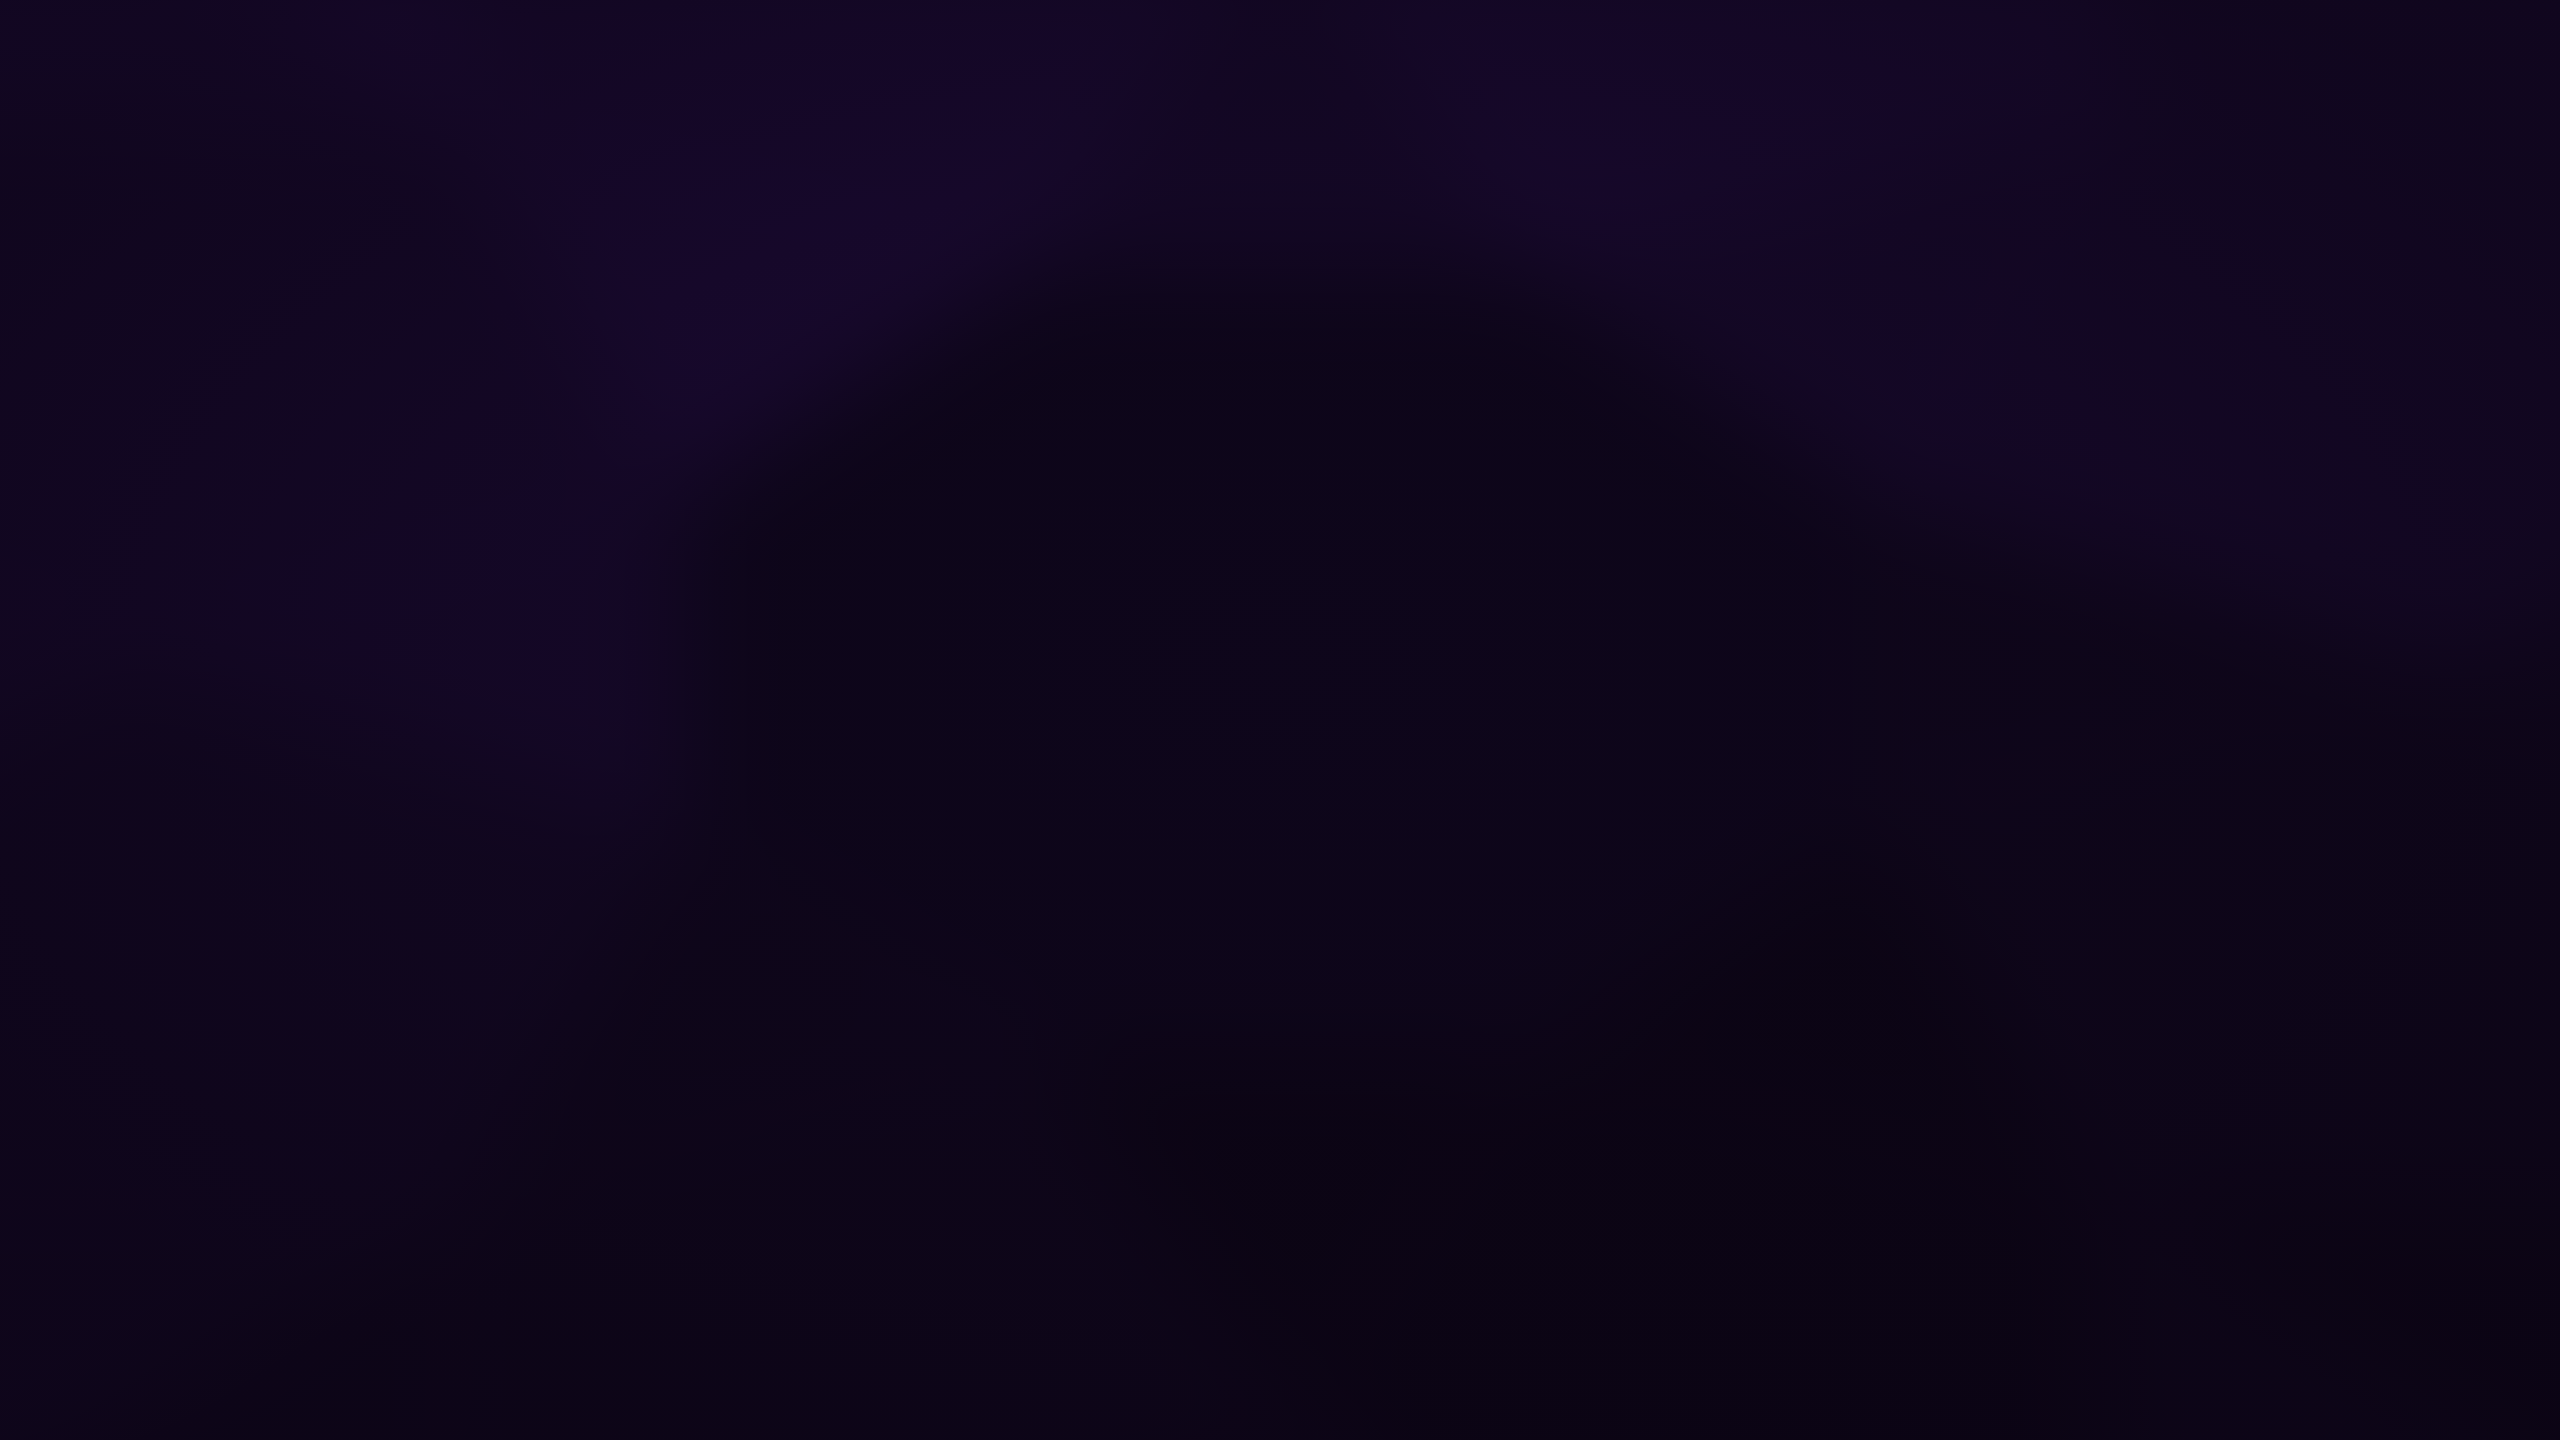
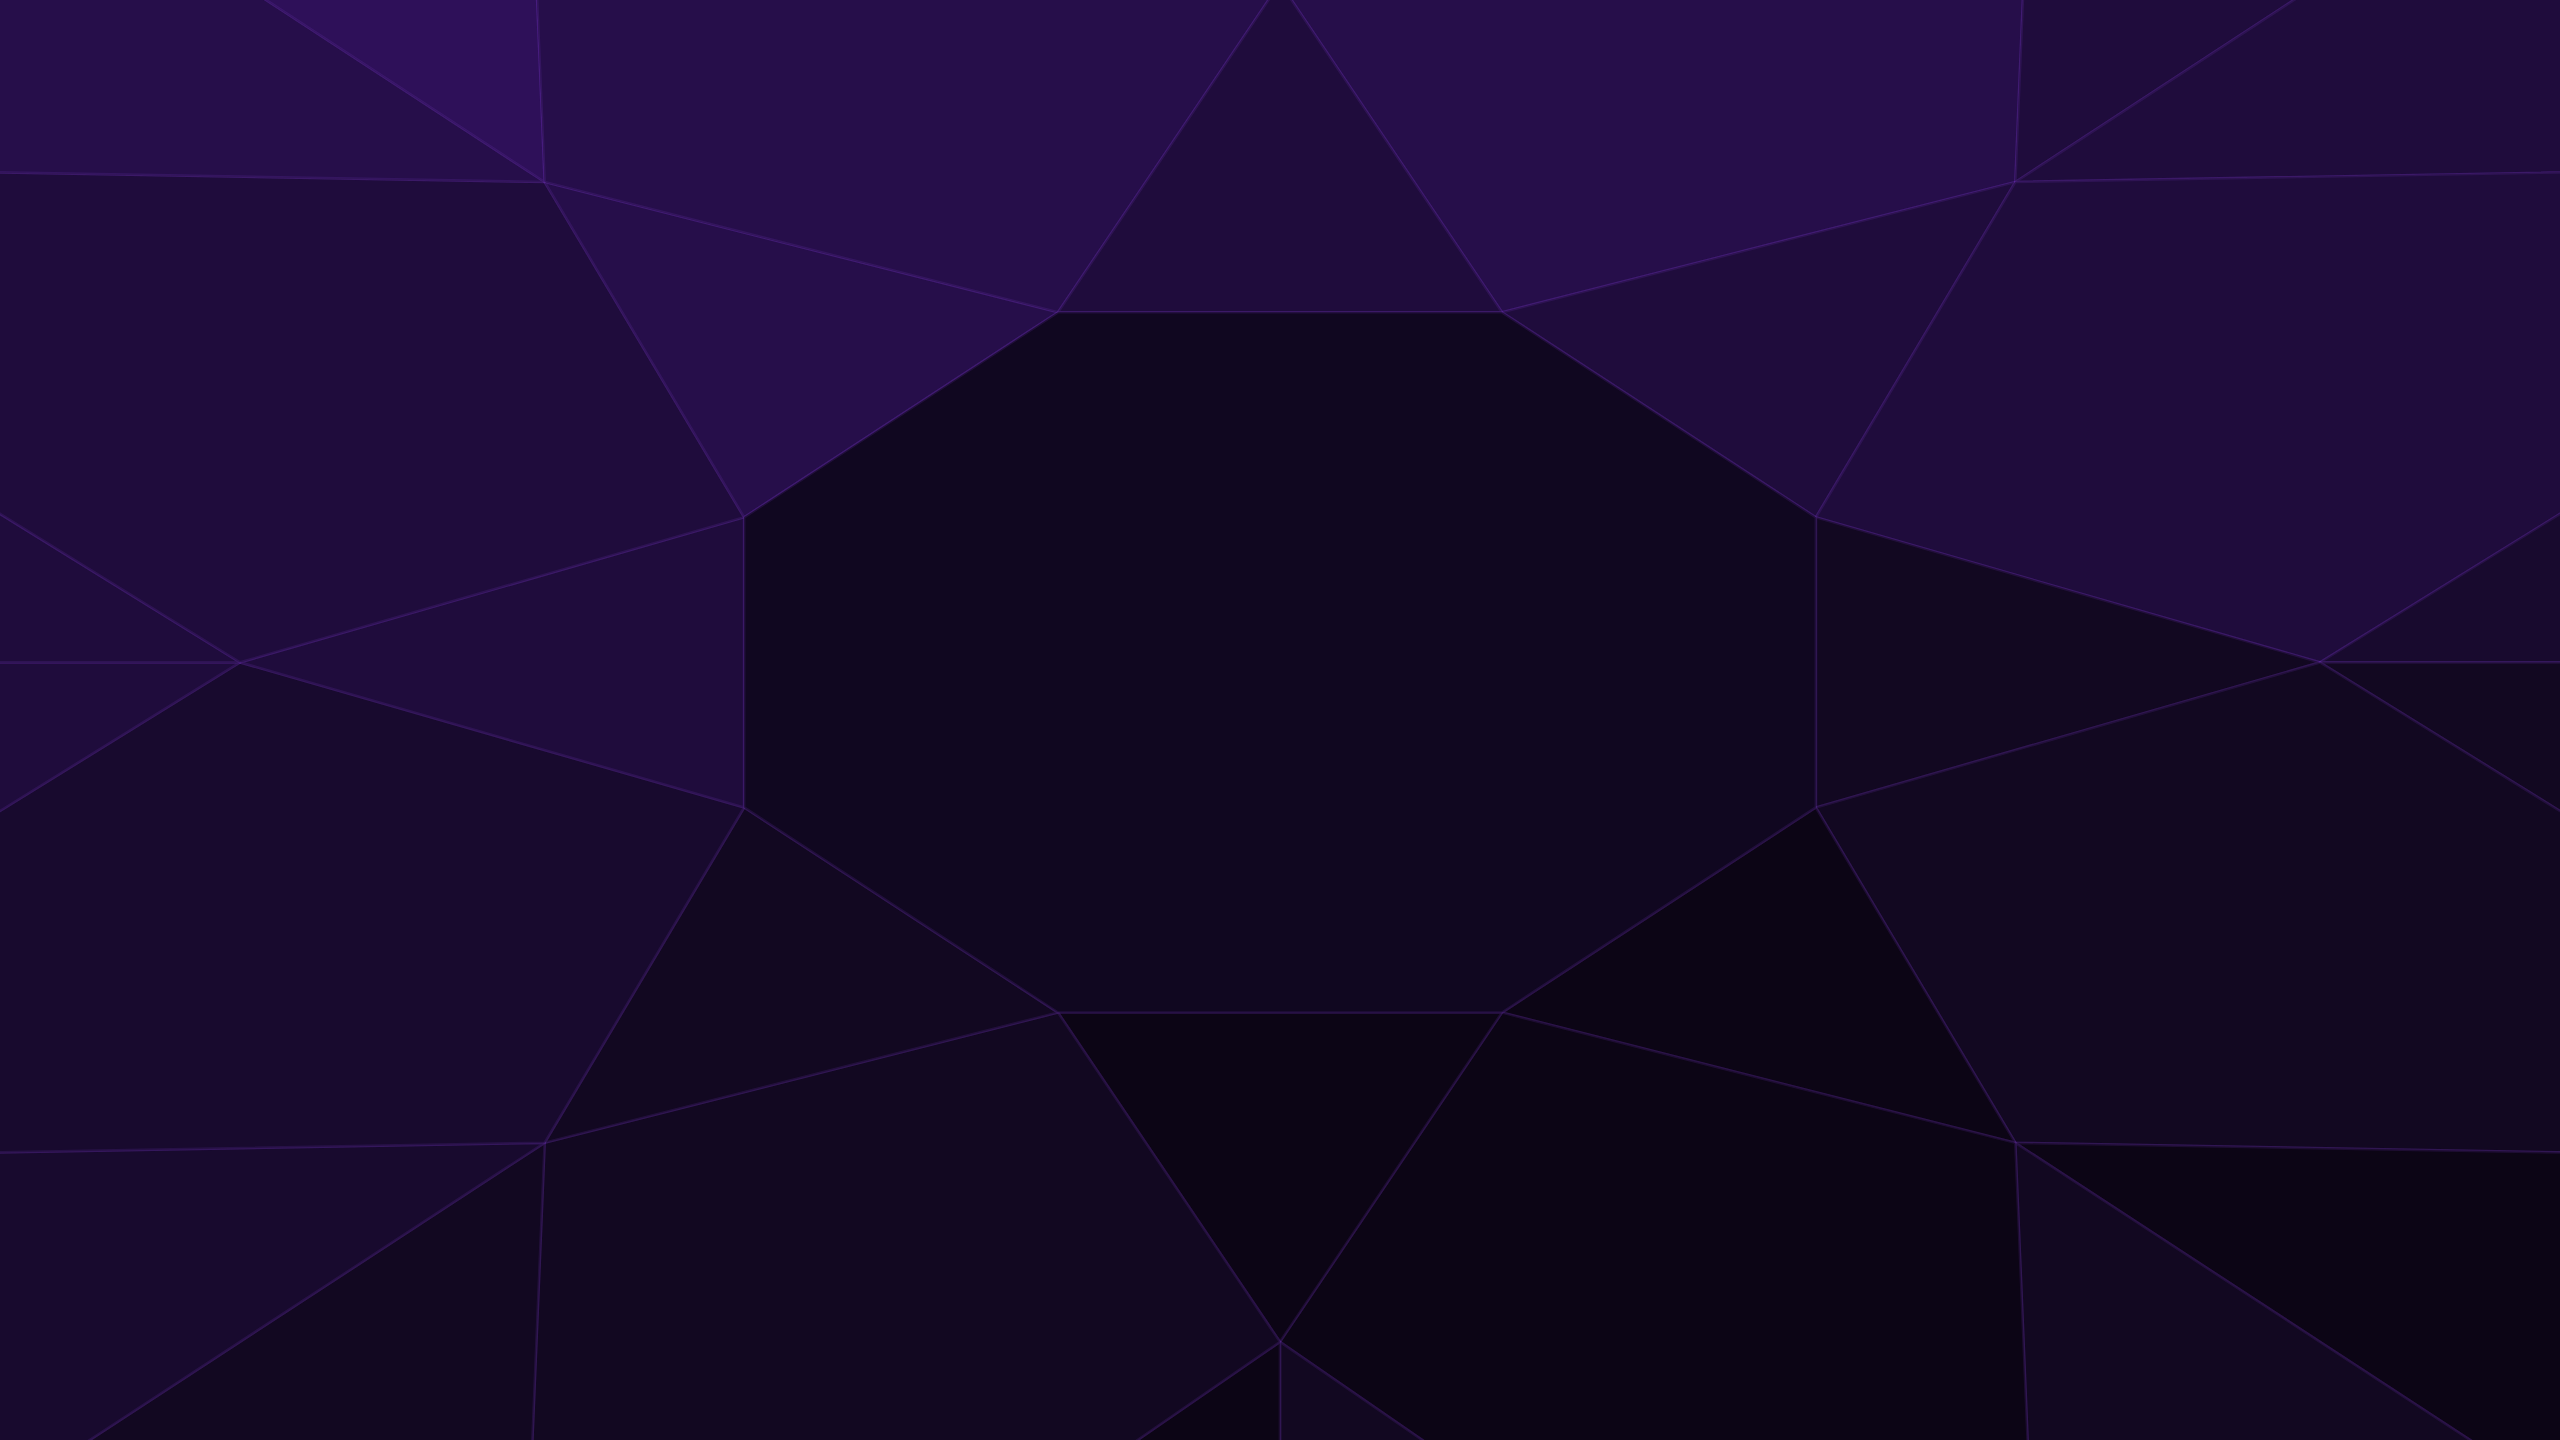
NVIDIA IMAGES+default background/login background

diff --git a/AGENTS.md b/AGENTS.md
@@ -500,7 +500,7 @@ packages for `generic-release` in the package database only, their files staying
 6. `build_files/shared/build-gnome-extensions.sh` - Builds the GNOME Shell extensions from the git submodules
 7. `10-icons.sh` - Installs the candy-icons icon theme from a pinned upstream commit (the pin is bumped by Renovate; see `.github/renovate.json5`). Apps the pack has no artwork for are aliased to its nearest icon; where nothing is near enough, the icon is drawn for this image in the pack's style and kept in `build_files/shared/candy-icons`, from where the script installs it into the theme. `NOTICE` names each of those icons with where its outline comes from and its licence, and `20-tests.sh` fails on one it does not name; an icon that reuses the pack's artwork, as the Security shield does, is GPL-3.0 like the pack, not Apache-2.0. The theme redraws nobody's logo: a logo is a trademark, and Mozilla, JetBrains, Anthropic and most others allow theirs unaltered or not at all. Of the pack's application icons only the drawings named in `build_files/shared/candy-icons/keep` stay, the pictograms of a job rather than of a product, and every application whose logo the pack redrew (Firefox, Thunderbird, the JetBrains IDEs and some 700 more) shows the icon it brought with it; the logos on the pack's folder, file type and status icons are removed too. Do not alias an application to another maker's logo, do not draw one for this image (Bazaar's is the one that is, and `NOTICE` says so: its maker publishes no trademark terms, which is what `keep` asks of a logo), and add a name to `keep` only after looking at the drawing; `20-tests.sh` fails on an application icon that is neither on the list nor drawn here. `user-setup.hooks.d/16-retire-jetbrains-icons.sh` takes back the links an earlier image made to the IDE drawings
 8. `11-gtk-theme.sh` - Installs the Amethystora GTK theme: EliverLara's Sweet, by the author of candy-icons, with every cool colour in it rotated onto the amethyst palette by `build_files/shared/recolor.py`. It ships under Amethystora's own name because the palette is no longer Sweet's. Only the `amethystora` and `amethystora-light` themes name it in their `gtk.theme`; the rest stay on adw-gtk3, which follows the GNOME accent colour. libadwaita ignores `gtk-theme` and a Flatpak cannot see `/usr/share/themes` at all, so both are reached by `theme-set.hooks.d/20-gtk-apps.sh`: it mirrors the active theme into `~/.themes`, which `/etc/flatpak/overrides/global` grants every sandbox read-only, and writes the `~/.config/gtk-4.0/gtk.css` that imports from the mirror
-9. `12-login-screen.sh` - Patches the login screen background into GNOME Shell's own stylesheet. GNOME reads it from the `#lockDialogGroup` rule inside `gnome-shell-theme.gresource` and from nowhere else, so the bundle is unpacked, the rule appended and the bundle rebuilt. The picture is the crown the boot splash ends on, blurred and without the gem, drawn by `branding/generate.mjs`
+9. `12-login-screen.sh` - Patches the login screen background into GNOME Shell's own stylesheet. GNOME reads it from the `#lockDialogGroup` rule inside `gnome-shell-theme.gresource` and from nowhere else, so the bundle is unpacked, the rule appended and the bundle rebuilt. The picture is the crown the boot splash ends on, as sharp as the splash draws it and without the gem, drawn by `branding/generate.mjs`
 10. `13-manual.sh` - Installs the runtime of the Amethystora Manual (`amethystora-manual`, `Super+F1`): a pinned Electron release, checked against the checksum Electron publishes, and a pinned `marked` from the npm registry, checked against its integrity. Both are bumped by Renovate. It also adds Quicksand for the wordmark, from `branding/fonts`. The app itself is `system_files/shared/usr/lib/amethystora-manual/resources/app` and its pages are `system_files/shared/usr/share/amethystora/manual`
 11. `14-security.sh` - Installs the runtime of Amethystora Security (`amethystora-security`), the security report and virus scanner that replace the report's terminal launcher and ClamUI: hard links to the Manual's Electron, so that the image carries one Electron for both, and Quicksand for its wordmark from `branding/fonts`, which the `ctx` stage copies in. The app itself is `system_files/shared/usr/lib/amethystora-security/resources/app`; the report it draws is `/usr/libexec/amethystora-security-status`, which `ujust security-status` prints. It also derives network protection's Suricata configuration (`/usr/share/amethystora/ips/suricata.yaml`) from the one the suricata package ships, with `build_files/shared/ips-config.py`, so that it fits Suricata 7 and 8 alike
 12. `15-update.sh` - Installs the runtime of System Updates (`amethystora-update`), the window that replaces upstream's System Update launcher, a terminal on `ujust update`: the same hard links to the Manual's Electron and the same Quicksand as `14-security.sh`. The app itself is `system_files/shared/usr/lib/amethystora-update/resources/app`; upstream's launcher is not shipped
@@ -512,7 +512,7 @@ packages for `generic-release` in the package database only, their files staying
 18. `18-workarounds.sh` - Temporary fixes/workarounds
 19. `19-initramfs.sh` - Regenerates initramfs, adding dracut's `tpm2-tss` module where dracut has it so that `ujust setup-disk-unlock` can hand the disk key to the TPM
 20. `build_files/shared/build-dx.sh` - dx only: copies `system_files/dx`, runs `build_files/dx/00-dx.sh` and then `01-tests-dx.sh`
-21. `build_files/shared/source-manifest.sh` - Writes `/usr/share/licenses/amethystora/SOURCES`: every package with its licence, source package and where that source is, which the GPL asks for and the written offer in `NOTICE` points to. Fedora keeps its own in Koji. RPM Fusion, negativo17 and Copr publish only their current builds, so the script fetches the source packages of theirs that are under a licence asking for the source into `/usr/src/amethystora`, and the build fails when one cannot be fetched; a Copr project the image starts installing from goes in its `COPR_PROJECTS`. `20-tests.sh` fails if a package is missing from the list or a source package from the image
+21. `build_files/shared/source-manifest.sh` - Writes `/usr/share/licenses/amethystora/SOURCES`: every package with its licence, source package and where that source is, which the GPL asks for and the written offer in `NOTICE` points to. Fedora keeps its own in Koji. RPM Fusion, negativo17 and Copr publish only their current builds, so the script fetches the source packages of theirs that are under a licence asking for the source into `/usr/src/amethystora`, and the build fails when one cannot be fetched; a Copr project the image starts installing from goes in its `COPR_PROJECTS`. NVIDIA's own repository, which the NVIDIA images take the container toolkit from, publishes no source packages at all, so its packages are listed with the address of their source instead (`NO_SOURCE_PACKAGES`); a GPL package from any other maker the script does not know still fails the build. `20-tests.sh` fails if a package is missing from the list or a source package from the image
 22. `20-tests.sh` - Runs last, after the repositories are validated and the build cleaned up; fails the build on anything missing or left behind, including a GNOME Shell extension shipped without its licence
 
 ## Development Guidelines

diff --git a/README.md b/README.md
@@ -57,7 +57,7 @@ There are six fixed workspaces on `Super+1` to `Super+6`, `Super+Shift+N` takes 
 
 #### Themes
 
-`Super+Ctrl+Shift+Space` picks a theme, `Super+Ctrl+D` flips between light and dark, and `Super+Ctrl+Space` cycles the wallpaper (every theme has three wallpapers of made-up places drawn in its palette and opens on the first, the Amethystora themes add the crystal field and their own artwork, and pictures added to `~/.config/amethystora/backgrounds/<theme>/` join them). One switch repaints GNOME's colour scheme and accent, the Ptyxis palette, the shell prompt, btop, the dock and the wallpaper, because each theme is a single palette file everything else is rendered from. The same from a terminal:
+`Super+Ctrl+Shift+Space` picks a theme, `Super+Ctrl+D` flips between light and dark, and `Super+Ctrl+Space` cycles the wallpaper (every theme has three wallpapers of made-up places drawn in its palette and opens on the first, the Amethystora themes open on a cut stone's facets instead and add the crystal field and a night sky, and pictures added to `~/.config/amethystora/backgrounds/<theme>/` join them). One switch repaints GNOME's colour scheme and accent, the Ptyxis palette, the shell prompt, btop, the dock and the wallpaper, because each theme is a single palette file everything else is rendered from. The same from a terminal:
 
 ```bash
 ujust theme                      # pick one
@@ -87,7 +87,7 @@ Turning the features off removes the menu entry, disables the keybinding and unl
 
 #### Boot menu
 
-The GRUB menu can carry the Amethystora artwork too — the same crystal field as the wallpaper, the wordmark above the entries, and the boot splash following on the same dark ground. It is off by default and turned on with:
+The GRUB menu can carry the Amethystora artwork too — the crystal field from the wallpapers, the wordmark above the entries, and the boot splash following on the same dark ground. It is off by default and turned on with:
 
 ```bash
 ujust setup-grub-theme

diff --git a/system_files/shared/usr/share/amethystora/manual/themes.md b/system_files/shared/usr/share/amethystora/manual/themes.md
@@ -49,8 +49,8 @@ Every theme comes with three wallpapers of made-up places drawn in its own colou
 a theme puts its first one on the desktop: a neon city in the rain for Tokyo Night, an aurora over a
 mountain lake for Nord, misty pines for Everforest, a desert sunset for Gruvbox, peaks under a
 pastel moon for Catppuccin, an eclipse for Matte Black, and so on. `Super+Ctrl+Space` cycles
-through them. The two Amethystora themes open on the crystal field, and also have a cut stone's
-facets and a night sky of violet smoke; GNOME's Settings offers those under Appearance.
+through them. The two Amethystora themes open on a cut stone's facets, and also have the crystal
+field and a night sky of violet smoke; GNOME's Settings offers those under Appearance.
 
 To add your own, put pictures (JPG, PNG, WebP or SVG) in a folder named after the theme. They come
 after the theme's own pictures:

diff --git a/system_files/shared/usr/share/amethystora/manual/hardware.md b/system_files/shared/usr/share/amethystora/manual/hardware.md
@@ -28,8 +28,8 @@ then run the recipe above.
 
 - **Intel and AMD** work out of the box. The developer image adds ROCm for GPU compute on AMD.
 - **NVIDIA** needs the `-nvidia-open` images, which carry NVIDIA's open kernel driver ([Installing](installing.md#pick-an-image)).
-  Builds of those images are paused at the moment. The NVIDIA driver is built for the machine and
-  signed with its own key, so the NVIDIA images do not use kernel lockdown.
+  The NVIDIA driver is built for the machine and signed with its own key, so the NVIDIA images do
+  not use kernel lockdown.
 
 ## Docks and displays
 

diff --git a/system_files/shared/usr/share/amethystora/manual/installing.md b/system_files/shared/usr/share/amethystora/manual/installing.md
@@ -30,9 +30,6 @@ and from the restart after that, an update is only accepted if it carries Amethy
 | `ghcr.io/iarsslen/amethystora-nvidia-open` | The standard desktop with NVIDIA's open kernel driver |
 | `ghcr.io/iarsslen/amethystora-dx-nvidia-open` | Developer mode with NVIDIA's open kernel driver |
 
-The NVIDIA images are paused at the moment. Check that the tag you want exists before switching to
-one.
-
 ## Pick a stream
 
 Every image comes in three streams, set by the tag after the colon:
